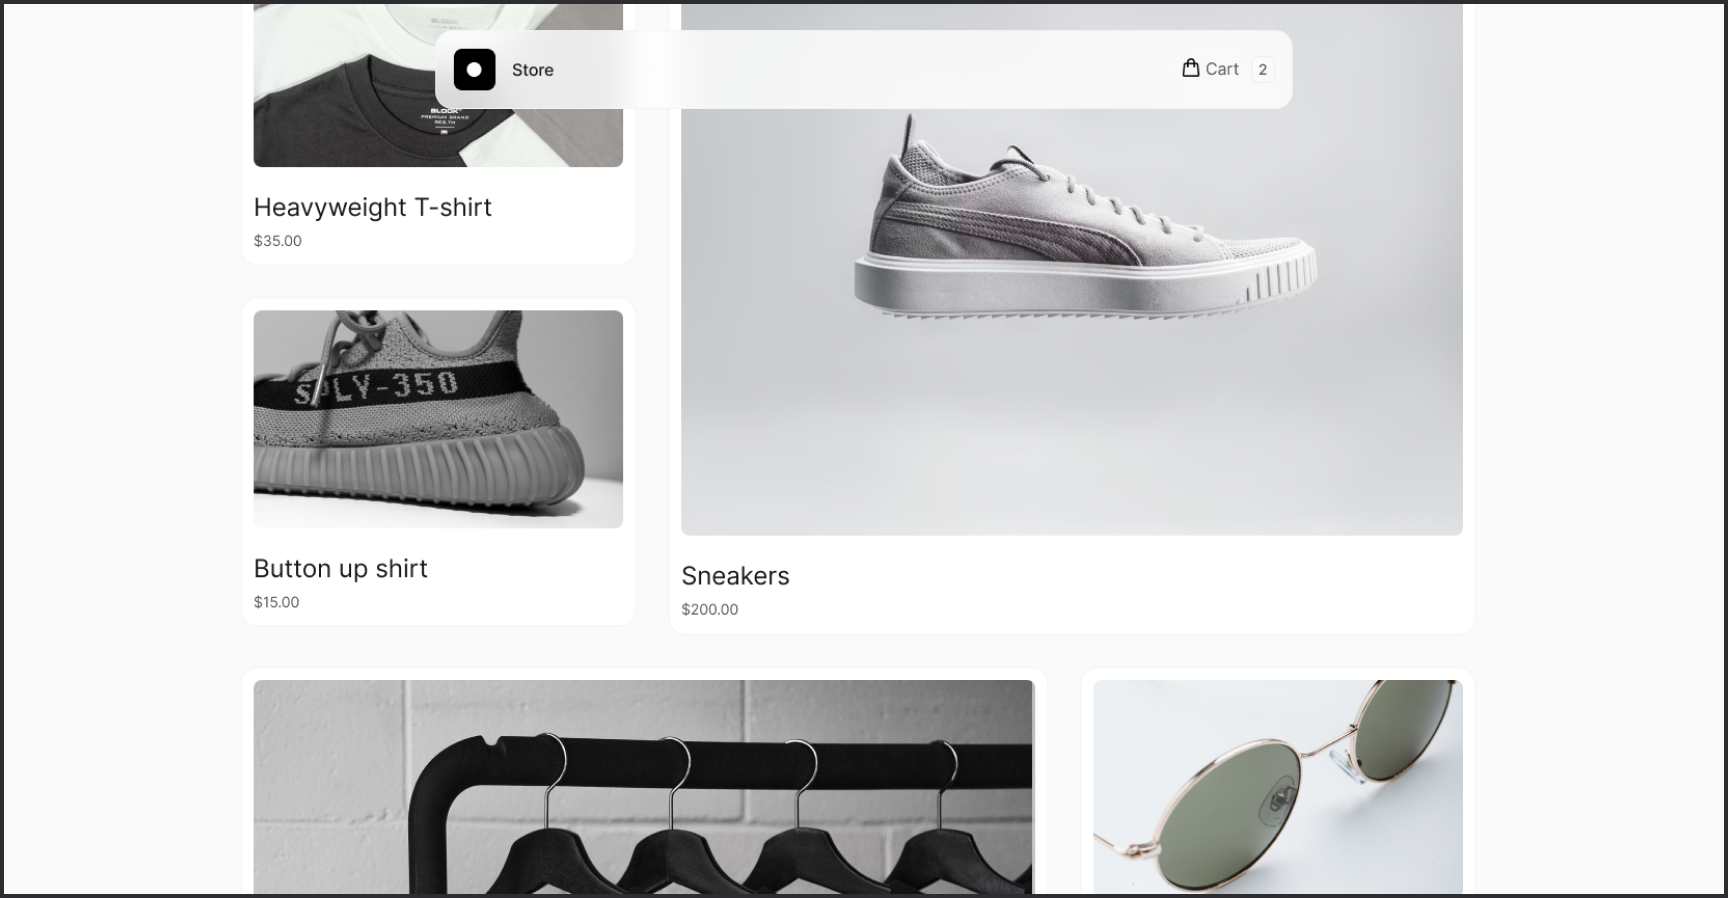
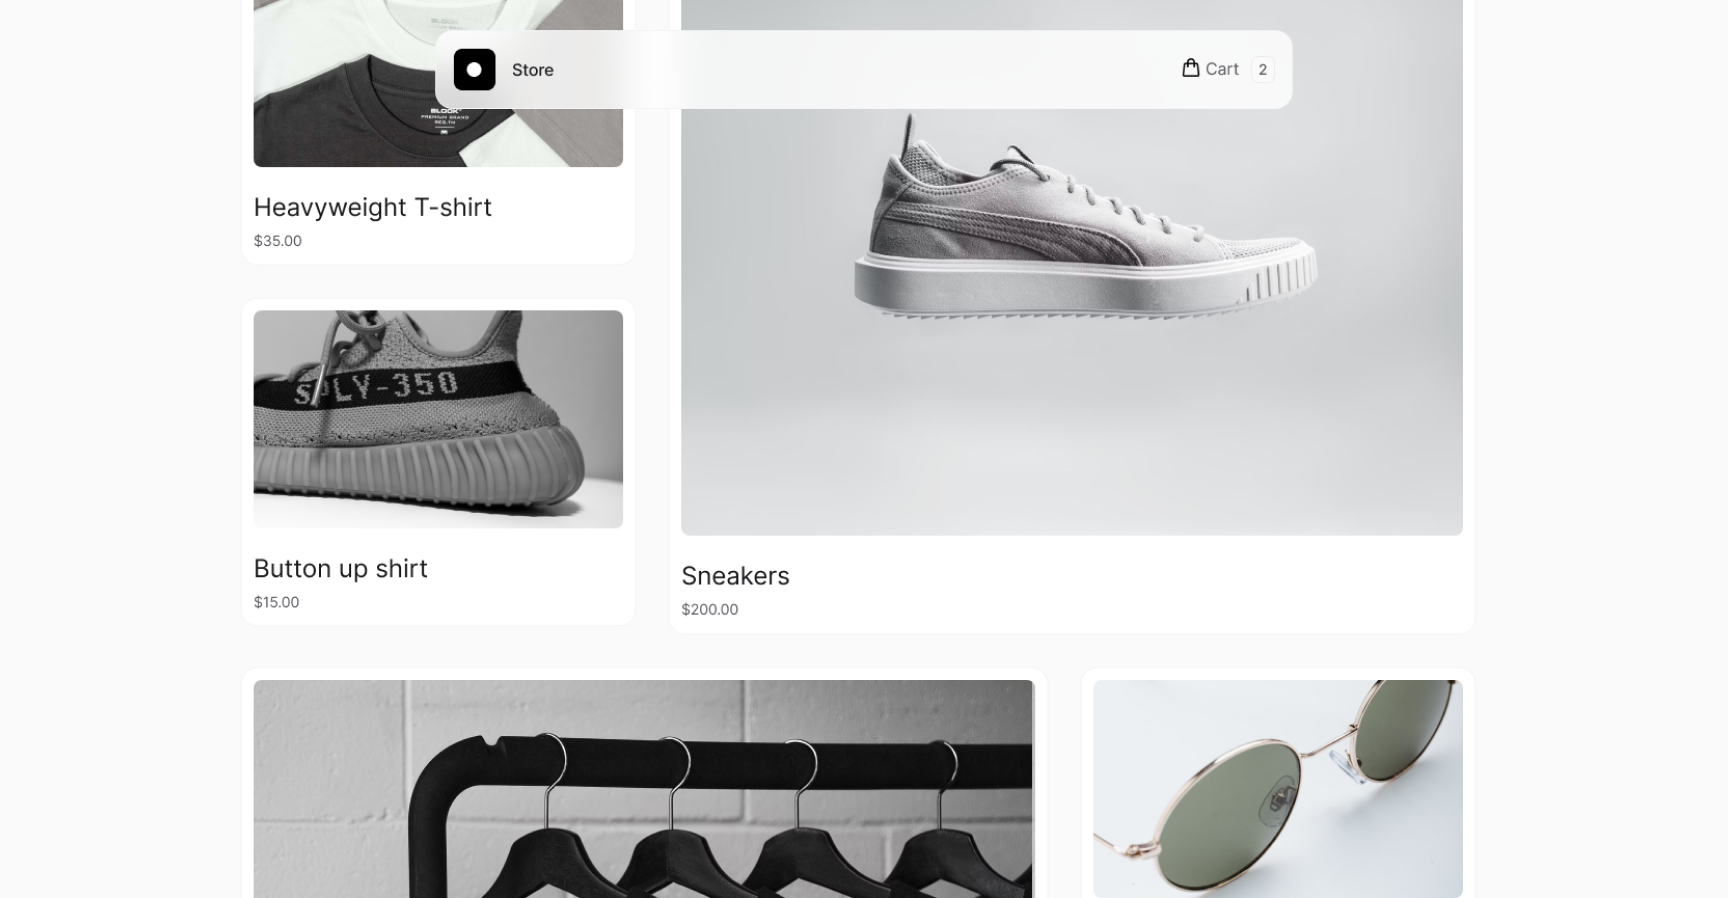
updates

Changed region(s): [[0.0, 0.9666, 1.0, 1.0], [0.0, 0.0, 1.0, 0.0312]]

diff --git a/src/app/projects/mdx-components.tsx b/src/app/projects/mdx-components.tsx
@@ -37,7 +37,7 @@ export const components: MDXComponents = {
       width={props.width || 1600}
       height={props.height || 800}
       className={cn(
-        'relative overflow-hidden rounded-xl',
+        'relative m-0! overflow-hidden rounded-xl',
         'border-2 border-neutral-750',
         className,
       )}
